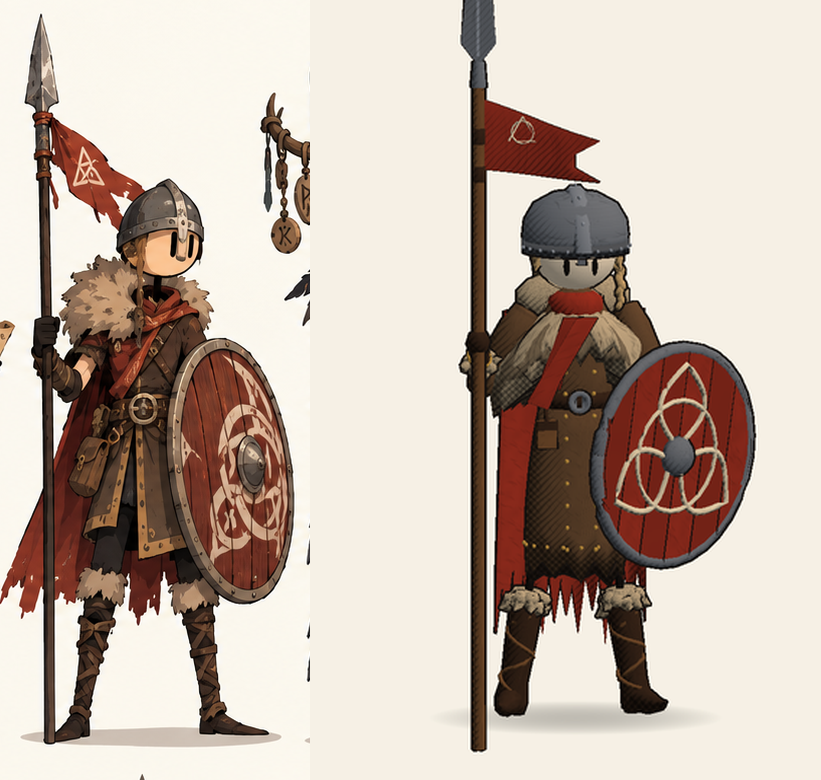
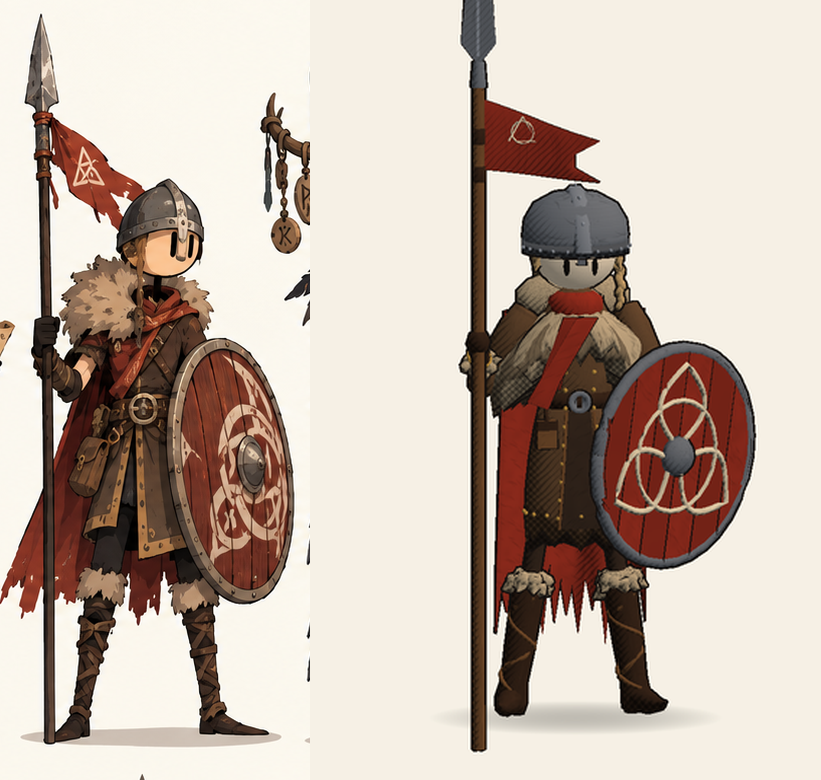
Spear Guard pass 3: split jerkin, dark trousers, knee boots
The jerkin opens up the front below the belt, its edges bound in lighter
leather and studded, with the dark under-tunic showing between; a new
Trousers garment puts dark wool over the stick legs; the jerkin is shorter
and the fur-topped boots reach the knee.

Claude-Session: https://claude.ai/code/session_01SCdejJ1UF8RUxAkkFhZXGU

Changed region(s): [[0.609, 0.5231, 0.7917, 0.8615], [0.7308, 0.8615, 0.7613, 0.8923]]

diff --git a/OdinsCoin/Assets/Scripts/Characters/Garments.cs b/OdinsCoin/Assets/Scripts/Characters/Garments.cs
@@ -755,20 +755,55 @@ namespace OdinsCoin
         {
             var f = d.fit;
             float s = d.S;
-            foreach (float x in new[] { -0.045f, 0.045f })
+            // Below the belt the jerkin is split up the front: how far apart its edges are at a height.
+            System.Func<float, float> split = y => y >= f.waist - 0.02f * s || !d.hasSkirt ? 0.045f * s
+                : Mathf.Lerp(0.045f * s, 0.075f * s, Mathf.InverseLerp(f.waist, d.skirtBottom, y));
+            foreach (float x in new[] { -1f, 1f })
                 for (int i = 0; i < 9; i++)
                 {
                     float y = Mathf.Lerp(f.chest - 0.04f * s, d.hasSkirt ? d.skirtBottom + 0.03f * s : f.waist, i / 8f);
                     float r = y > f.waist ? f.TorsoRadius(y) * f.depth : d.SkirtRadius(y) * d.skirtDepth;
-                    d.Add(Joints.Body, d.pal.brass, MeshData.Ellipsoid(new Vector3(x * s, y, r + 0.008f * s), Vector3.one * 0.008f * s, 5, 3), false);
+                    d.Add(Joints.Body, d.pal.brass, MeshData.Ellipsoid(new Vector3(x * split(y), y, r + 0.008f * s), Vector3.one * 0.008f * s, 5, 3), false);
                 }
             if (!d.hasSkirt) return;
+            // The split itself: the dark under-tunic showing between the jerkin's edges, which are bound in lighter leather.
+            const int rows = 6;
+            var gap = new Vector3[rows, 2];
+            var edgeL = new Vector3[rows];
+            var edgeR = new Vector3[rows];
+            var er = new float[rows];
+            for (int r = 0; r < rows; r++)
+            {
+                float y = Mathf.Lerp(f.waist - 0.03f * s, d.skirtBottom - 0.005f * s, r / (float)(rows - 1));
+                float z = d.SkirtRadius(y) * d.skirtDepth + 0.004f;
+                float w = split(y) - 0.012f * s;
+                gap[r, 0] = new Vector3(-w, y, z);
+                gap[r, 1] = new Vector3(w, y, z);
+                edgeL[r] = new Vector3(-split(y) + 0.004f * s, y, z + 0.004f * s);
+                edgeR[r] = new Vector3(split(y) - 0.004f * s, y, z + 0.004f * s);
+                er[r] = 0.006f * s;
+            }
+            d.Add(Joints.Body, d.pal.clothDark, CharacterKit.Sheet(gap, Vector3.forward, 0.006f * s), false);
+            d.Add(Joints.Body, d.pal.leather, MeshData.Tube(edgeL, er, 5), false);
+            d.Add(Joints.Body, d.pal.leather, MeshData.Tube(edgeR, er, 5), false);
             for (int i = 0; i < 18; i++)
             {
                 float a = i / 18f * Mathf.PI * 2f;
                 float y = d.skirtBottom + 0.035f * s, r = d.SkirtRadius(y) + 0.006f;
                 d.Add(Joints.Body, d.pal.brass, MeshData.Ellipsoid(new Vector3(Mathf.Sin(a) * r, y, Mathf.Cos(a) * r * d.skirtDepth), Vector3.one * 0.0075f * s, 5, 3), false);
             }
+        }
+
+        /// <summary>Dark wool trousers from the hip down into the boots, over the stick legs.</summary>
+        public static void Trousers(Dresser d, float bootExtra)
+        {
+            var f = d.fit;
+            float s = d.S;
+            float r = 0.034f * s * Mathf.Sqrt(f.width);
+            float bottom = f.bootTop + bootExtra * s - f.hip - 0.02f * s;
+            foreach (var leg in new[] { Joints.LeftLeg, Joints.RightLeg })
+                d.Add(leg, d.pal.clothDark, MeshData.Lathe(new[] {
+                    new Vector2(r * 0.8f, bottom), new Vector2(r * 0.85f, (bottom - 0.02f * s) * 0.5f), new Vector2(r, -0.05f * s), new Vector2(r * 1.05f, 0.02f * s) }, 10));
         }
 
         /// <summary>A belt with a big round ring buckle and one pouch hanging at the right hip.</summary>

diff --git a/OdinsCoin/Assets/Scripts/Characters/Outfits.cs b/OdinsCoin/Assets/Scripts/Characters/Outfits.cs
@@ -115,9 +115,10 @@ namespace OdinsCoin
                     new Ability { id = "reach", name = "Long Reach", description = "Strike enemies from further away." } },
                 dress = d =>
                 {
-                    Garments.FurBoots(d, 0.07f);
+                    Garments.FurBoots(d, 0.13f);
+                    Garments.Trousers(d, 0.13f);
                     Garments.Gloves(d);
-                    Garments.LongSkirt(d, 0.2f, 1.3f);
+                    Garments.LongSkirt(d, 0.3f, 1.3f);
                     Garments.Tunic(d, false);
                     Garments.LongSleeves(d);
                     Garments.StuddedTrim(d);
